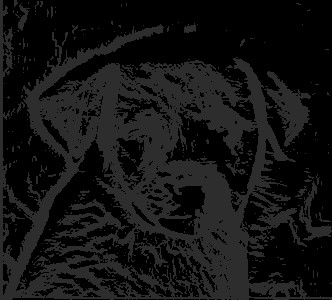
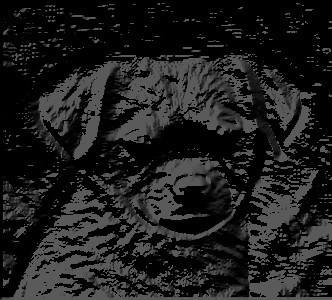
Fix file location

diff --git a/src/nonMaxSup.cpp b/src/nonMaxSup.cpp
@@ -3,7 +3,7 @@
 
 using namespace std;
 
-unsigned char* computeGradientDirection(unsigned char* sobel, int width, int height) {
+unsigned char* computeGradientDirection(unsigned char* sobelX, unsigned char* sobelY, int width, int height) {
     int pixelIndex;
     float angle;
 
@@ -13,7 +13,7 @@ unsigned char* computeGradientDirection(unsigned char* sobel, int width, int hei
     for (int y = 0; y < height; y++) {
         for (int x = 0; x < width; x++) {
             pixelIndex = (y * width + x);   
-            angle = atan2(sobel[pixelIndex], sobel[pixelIndex]) * 180 / M_PI;
+            angle = atan2(sobelY[pixelIndex], sobelX[pixelIndex]) * 180 / M_PI;
             
             if (angle < 0) {
                 angle += 180;
@@ -26,7 +26,7 @@ unsigned char* computeGradientDirection(unsigned char* sobel, int width, int hei
     return output;
 }
 
-unsigned char* nonMaxSuppression(unsigned char* image, int width, int height) {
+unsigned char* nonMaxSuppression(unsigned char* direction, int width, int height) {
     int pixelIndex;
     int maxIntensity;
 
@@ -35,10 +35,10 @@ unsigned char* nonMaxSuppression(unsigned char* image, int width, int height) {
     for (int y = 0; y < height; y++) {
         for (int x = 0; x < width; x++) {
             pixelIndex = (y * width + x);
-            if (image[pixelIndex] < 40) {
-                image[pixelIndex] = 0;
+            if (direction[pixelIndex] < 40) {
+                direction[pixelIndex] = 0;
             }
-            output[pixelIndex] = image[pixelIndex];
+            output[pixelIndex] = direction[pixelIndex];
         } 
     }
     return output;

diff --git a/src/main.cpp b/src/main.cpp
@@ -8,28 +8,27 @@
 #include "../header/sobel.hpp"
 #include "../header/nonMaxSup.hpp"
 
+using namespace std;
+
 int main() {
     int width, height, channel;
-    unsigned char *image = stbi_load("dog.jpg", &width, &height, &channel, 1);
+    unsigned char *image = stbi_load("./src/dog.jpg", &width, &height, &channel, 1);
 
     float sigma = 5.0f;
-    float kernel [KERNEL_SIZE][KERNEL_SIZE];
+    float kernel[KERNEL_SIZE][KERNEL_SIZE];
 
     generateGaussian(kernel, KERNEL_SIZE, sigma);
 
     unsigned char *gaussian = applyGaussianKernel(kernel, KERNEL_SIZE, image, width, height);
-    stbi_write_jpg("../results/gaussian.jpg", width, height, 1, gaussian, 90);
-
+    stbi_write_jpg("./results/gaussian.jpg", width, height, 1, gaussian, 90);
 
     unsigned char* sobelx = sobelX(gaussian, width, height);
     unsigned char* sobely = sobelY(gaussian, width, height);
-
     unsigned char* sobel = computeMagnitude(sobelx, sobely, width, height);
+    stbi_write_jpg("./results/sobel.jpg", width, height, 1, sobel, 90);
 
-    stbi_write_jpg("../results/sobel.jpg", width, height, 1, sobel, 90);
-
-    unsigned char* direction = computeGradientDirection(sobel, width, height);
-    stbi_write_jpg("../results/direction.jpg", width, height, 1, direction, 90);
+    unsigned char* direction = computeGradientDirection(sobelx, sobely, width, height);
+    stbi_write_jpg("./results/direction.jpg", width, height, 1, direction, 90);
 
     delete[] image;
     delete[] gaussian;

diff --git a/header/nonMaxSup.hpp b/header/nonMaxSup.hpp
@@ -1,7 +1,7 @@
 #ifndef NONMAXSUP_HPP
 #define NONMAXSUP_HPP
 
-unsigned char* computeGradientDirection(unsigned char* sobel, int width, int height);
+unsigned char* computeGradientDirection(unsigned char* sobelX, unsigned char* sobelY, int width, int height);
 unsigned char* nonMaxSuppression(unsigned char* image, int width, int height);
 
 #endif

diff --git a/header/gaussian.hpp b/header/gaussian.hpp
@@ -2,6 +2,8 @@
 #define GAUSSIAN_HPP
 #define KERNEL_SIZE 5
 
+#include <math.h>
+
 void generateGaussian(float kernel[KERNEL_SIZE][KERNEL_SIZE], int kSize, float sigma);
 unsigned char* applyGaussianKernel(float kernel[KERNEL_SIZE][KERNEL_SIZE], int kSize, unsigned char *image, int width, int height);
 

diff --git a/src/gaussian.cpp b/src/gaussian.cpp
@@ -1,5 +1,5 @@
 #include "../header/gaussian.hpp"
-#include <math.h>
+
 
 void generateGaussian(float kernel[KERNEL_SIZE][KERNEL_SIZE], int kSize, float sigma) {
     //Gaussian kernel needs to start from the center and move outwards
